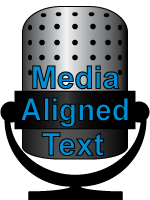
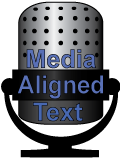
fixed some header styling

diff --git a/css/main.css b/css/main.css
@@ -1,16 +1,16 @@
 @CHARSET "UTF-8";
 body {
     margin-top: 0px;
-    background-color: #999999;
+    background-color: #5577ff;
     font-family: Helvetica, Arial, FreeSans, san-serif;
     color: #000000;
 }
 #container {
-    margin: 0 auto;
+    margin: 0px auto 0px auto;
     width: 700px;
     clear: both;
     background-color: #ffffff;
-    padding: 5px;
+    padding: 0px 10px 10px 10px;
 	border: 1px solid #000000;
 	border-top: 0px;
 	-moz-box-shadow: 3px 3px 3px #333333;
@@ -22,22 +22,21 @@ nav li {
     margin: 0px 10px 0px 0px;
     list-style-type: none;
 }
-nav ul {padding: 0px}
-h1 { font-size: 2.5em;  margin-bottom: 3px;}
+nav ul {padding-bottom: 10px}
+h1 { font-size: 3em;  margin: 5px 0px 5px 0px; padding: 0px;}
 h1 .small { font-size: 0.4em; }
 h1 a { text-decoration: none;}
 h2 { font-size: 1.5em; }
 h3 { text-align: center;  }
 a { color: #292900; }
-#header {height: 150px; border-bottom: 1px solid black;}
+#header {height: 120px; border-bottom: 1px solid black; padding-top: 1px;}
 #header_logo {float: left}
-#header_logo img {height: 160px; width: 120px; margin-top: -15px; }
-.description { font-size: 1.2em; margin-bottom: 30px; margin-top: 30px; font-style: italic; }
+#header_logo img { height: 120px; width: 90px; margin-right: 5px;}
+.description { font-size: 1em; margin-bottom: 5px; margin-top: 5px; font-style: italic; }
 .download { float: right; }
 pre { background: #000; color: #fff; padding: 15px;}
 hr { border: 0; width: 80%; border-bottom: 1px solid #aaa}
-.title {padding-top: 5px;}
-.title img{width: 150px; height: 200px; float: left;}
+.title {padding: 10xp; margin: 5px 0px;}
 .footer { text-align:center; padding-top:30px; font-style: italic; }
 
 

diff --git a/index.html b/index.html
@@ -17,6 +17,10 @@
         <div id="header_logo">
            <img src="images/MediaAlignedTextIcon.png" alt="Media Aligned Text Icon""/>
         </div>
+        <div class="download">
+            <a href="https://github.com/jrweth/MediaAlignedText/zipball/master"><img border="0" width="90" src="https://github.com/images/modules/download/zip.png" alt="download zip file"></a>
+            <a href="https://github.com/jrweth/MediaAlignedText/tarball/master"><img border="0" width="90" src="https://github.com/images/modules/download/tar.png" alt="download tar file"></a>
+        </div>
         <nav>
             <ul>
                 <li><a href="index.html">home</a></li>
@@ -25,11 +29,6 @@
                 <li><a href="editor_demo.html">editor demo</a></li>
             </ul>
         </nav>
-      
-        <div class="download">
-            <a href="https://github.com/jrweth/MediaAlignedText/zipball/master"><img border="0" width="90" src="https://github.com/images/modules/download/zip.png" alt="download zip file"></a>
-            <a href="https://github.com/jrweth/MediaAlignedText/tarball/master"><img border="0" width="90" src="https://github.com/images/modules/download/tar.png" alt="download tar file"></a>
-        </div>
         
         <div class="title">
            <h1>
@@ -39,7 +38,7 @@
         </div>
         
         <div class="description">
-            Javascript libraries to enable the highlighted display of text which has been time aligned with audio and video files.
+            jQuery plugin to highlight time aligned text with audio files
         </div>
     </div>
     
